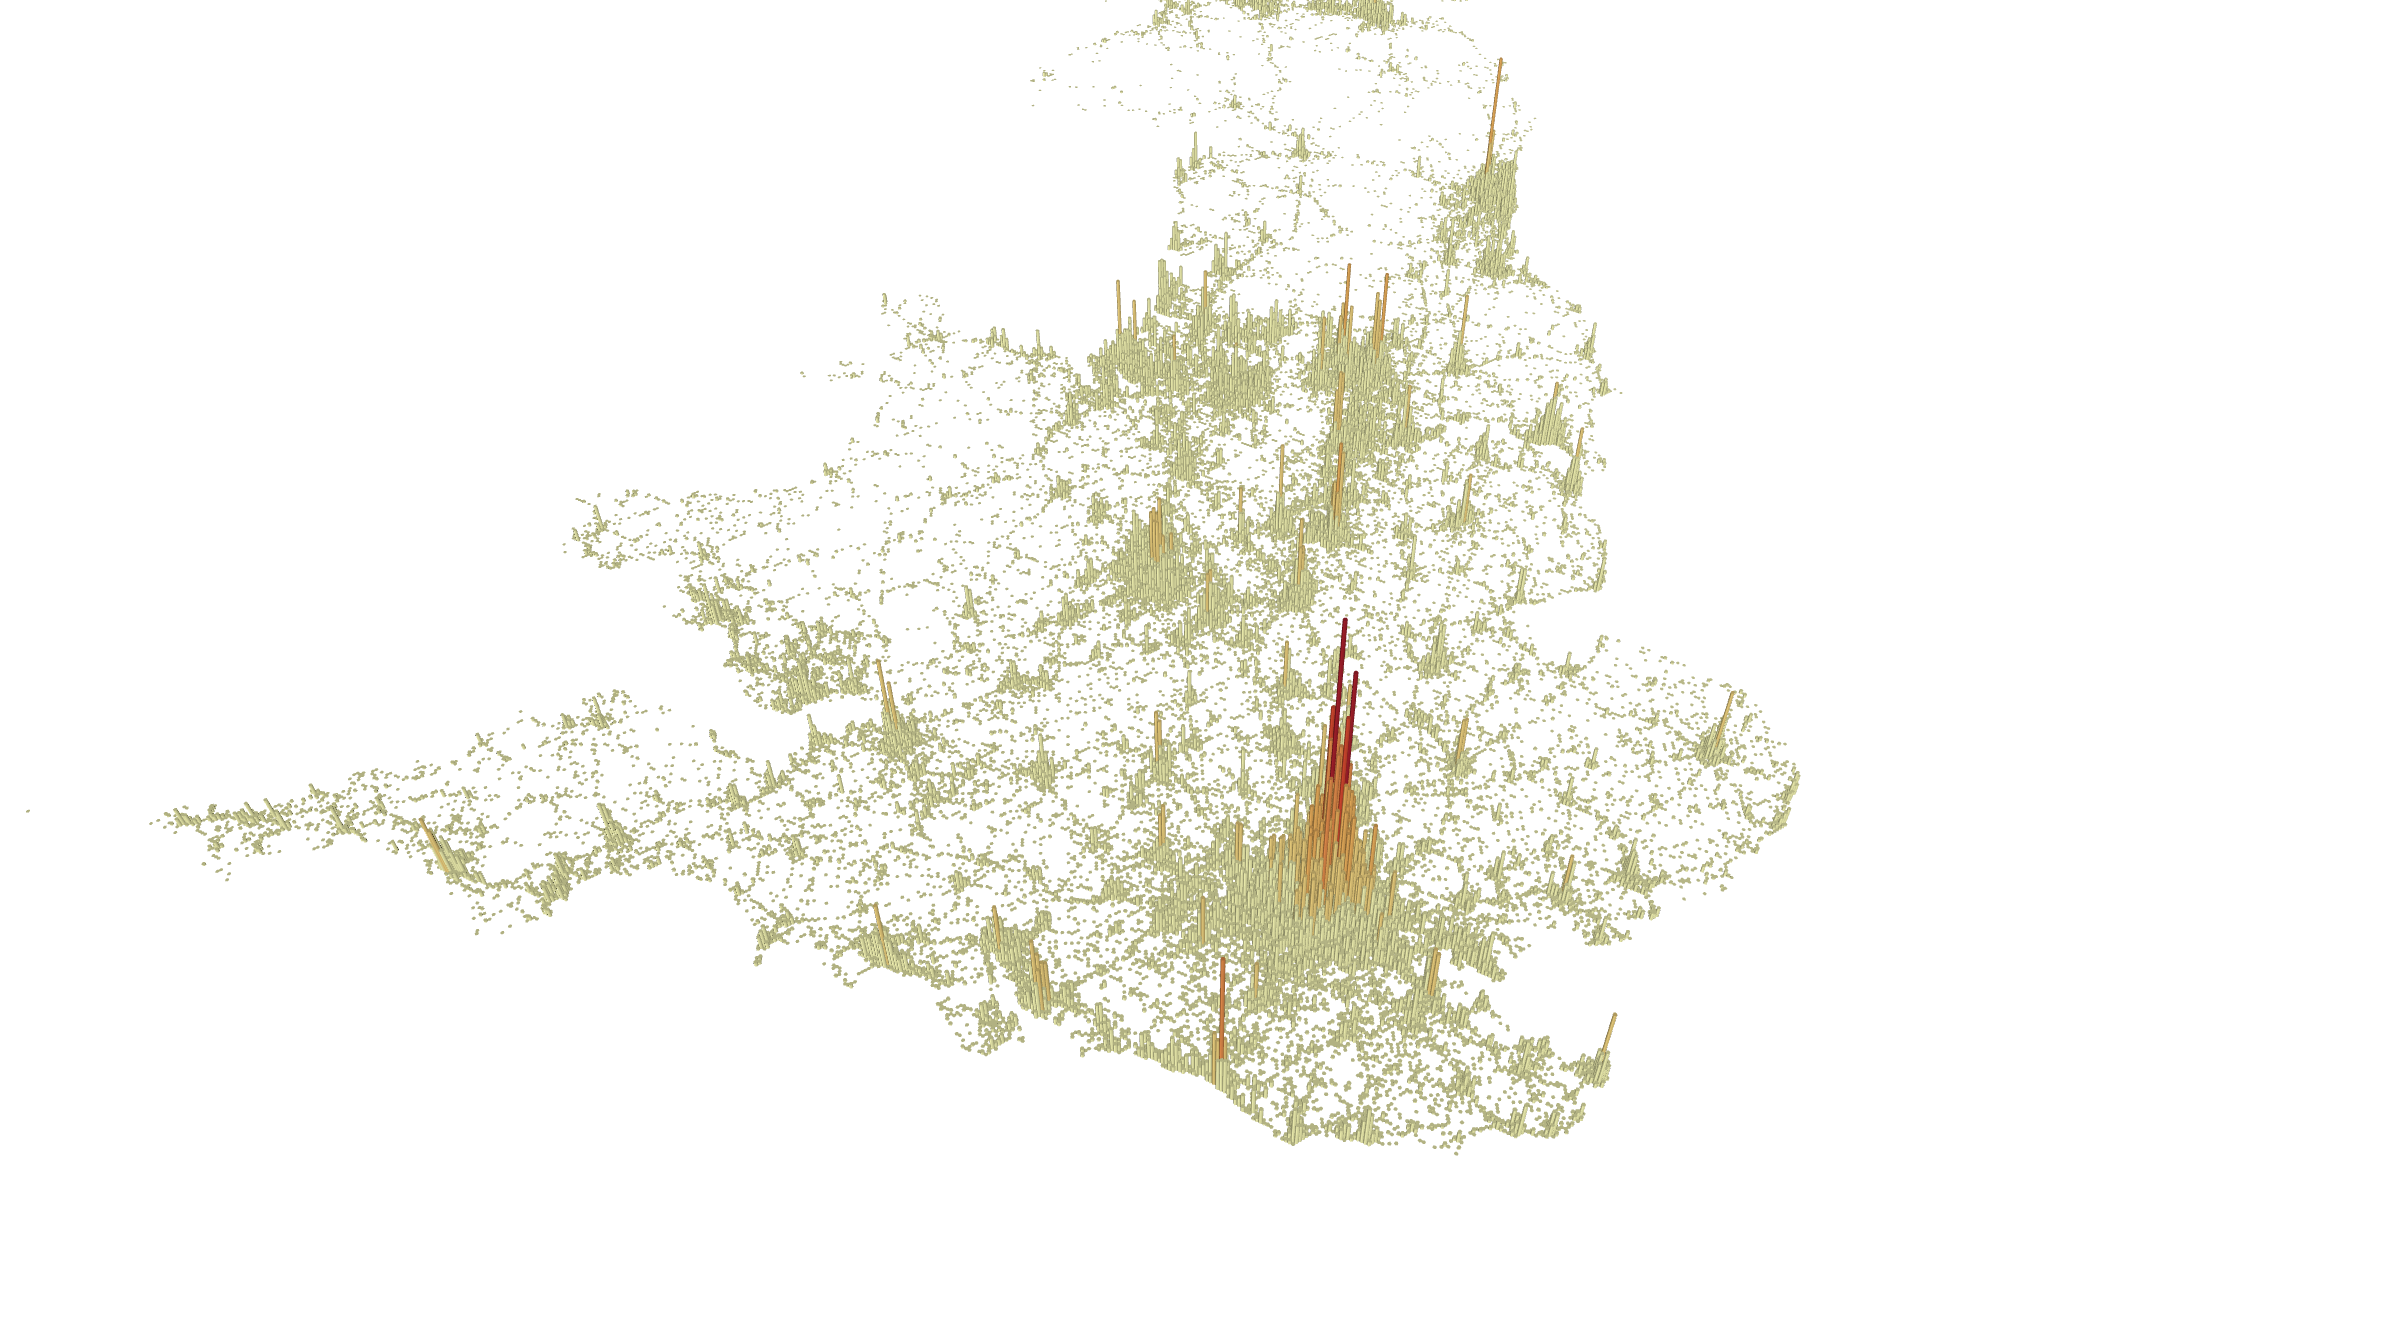
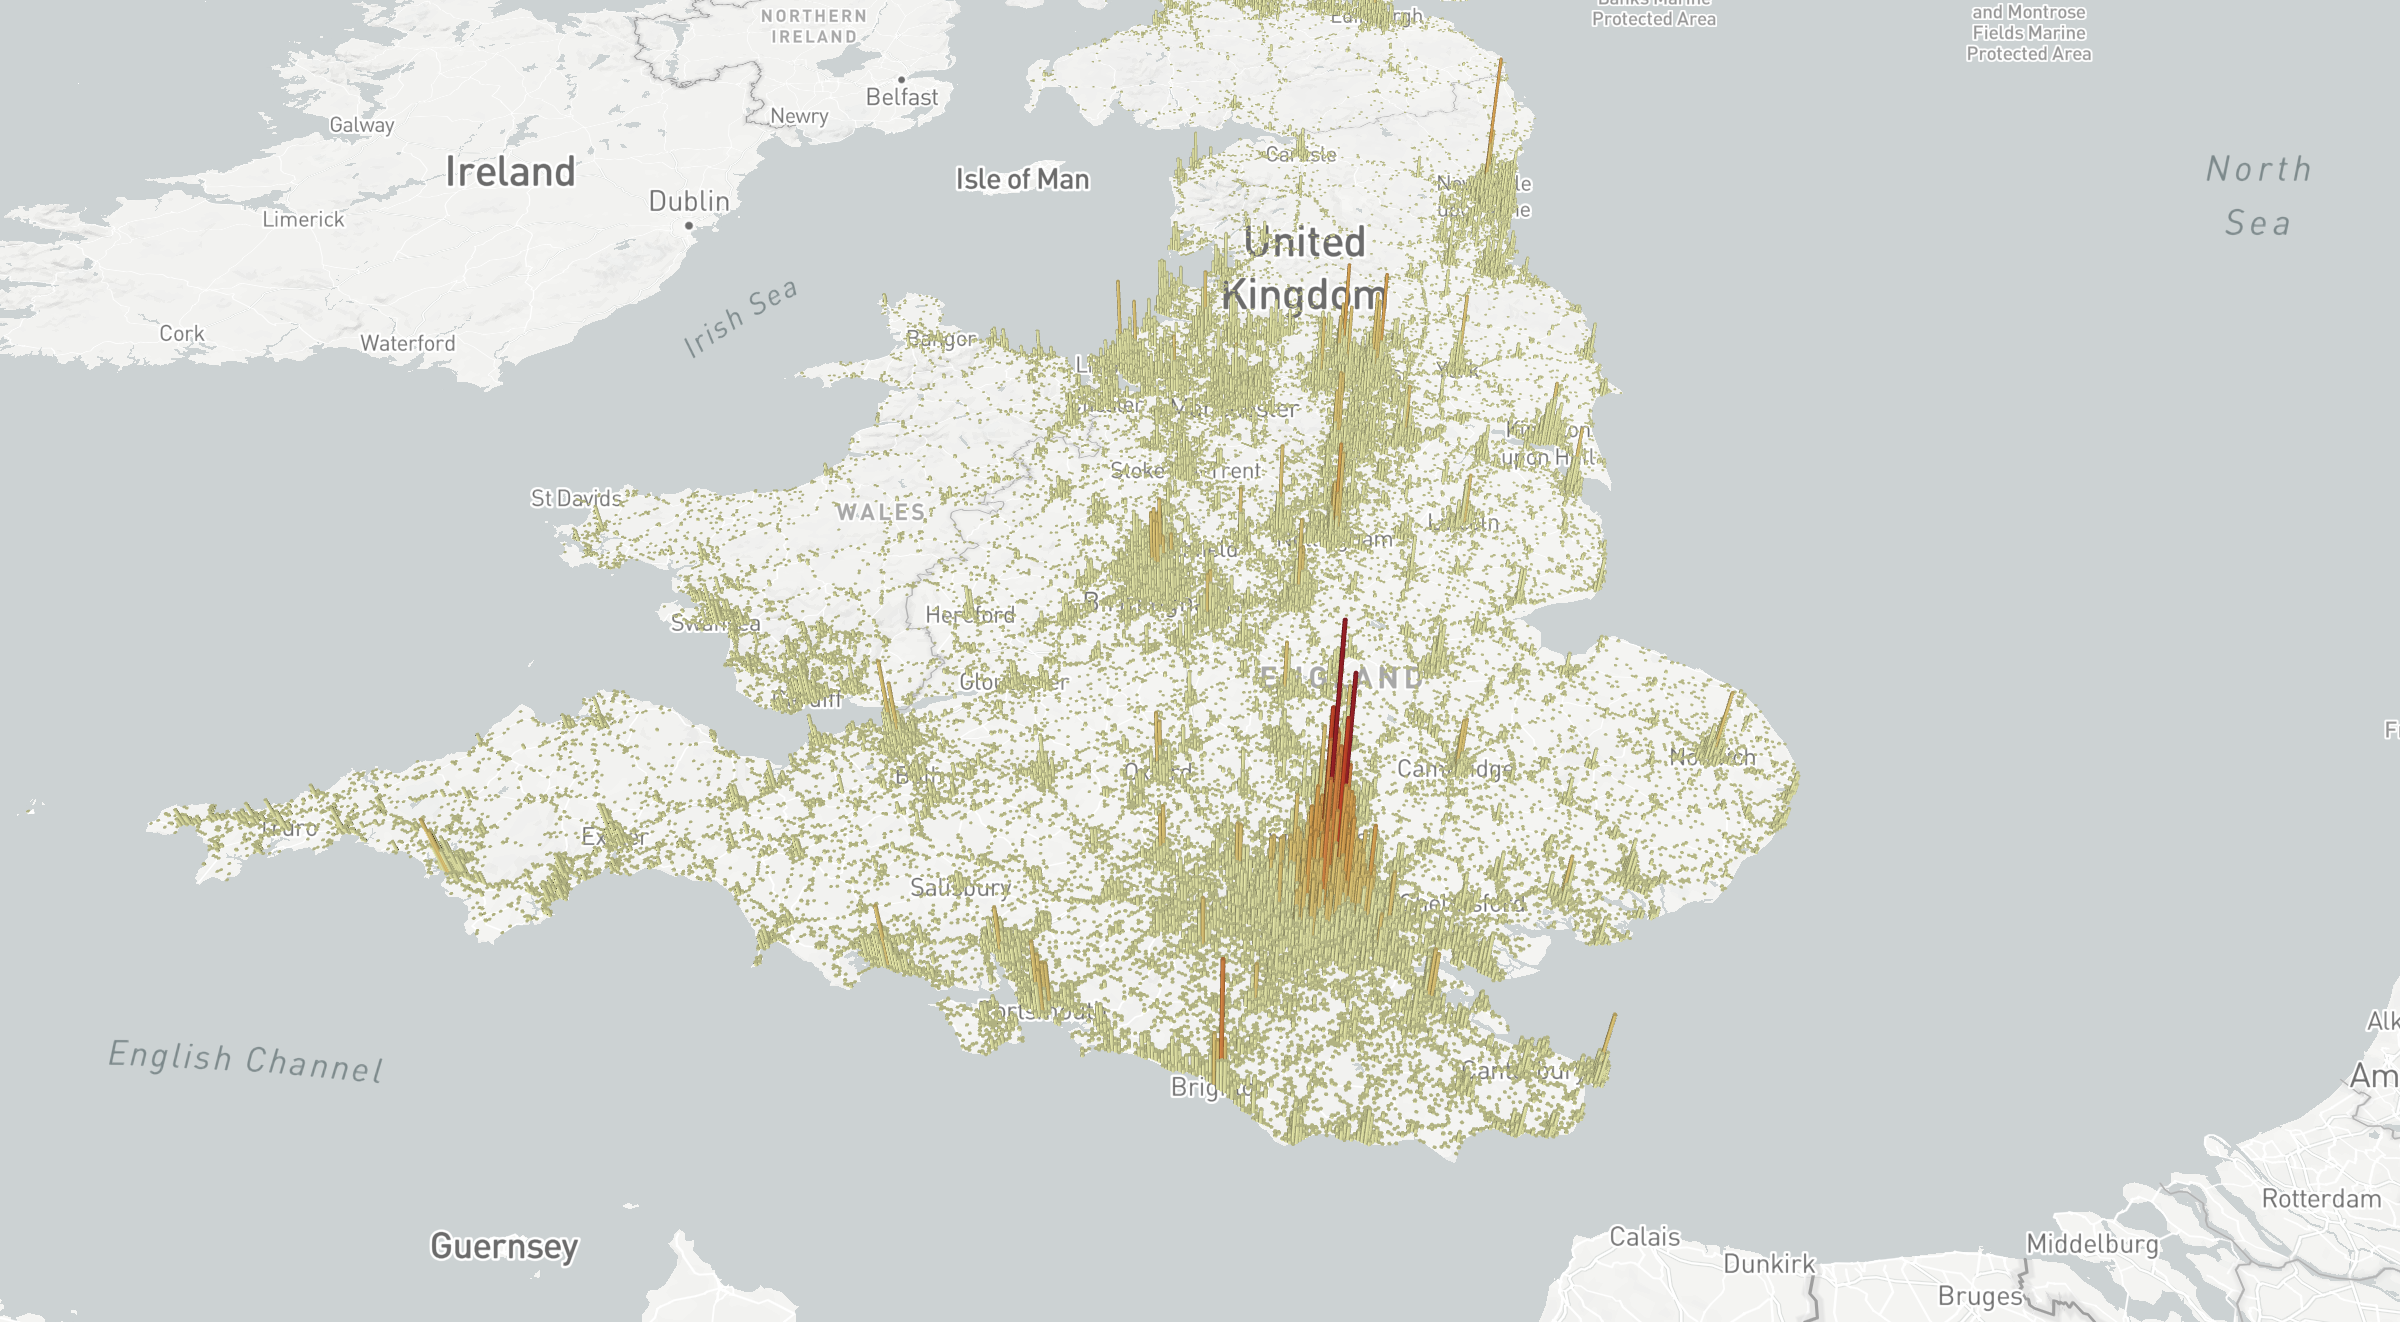
Update deck_map.html and pydeck_selenium_example to enhance map visualization and functionality

diff --git a/deck_map.html b/deck_map.html
@@ -33,13 +33,30 @@
     const container = document.getElementById('deck-container');
     const jsonInput = {
   "initialViewState": {
-    "latitude": 35.6812,
-    "longitude": 139.7671,
-    "pitch": 45,
-    "zoom": 11
+    "bearing": -27.36,
+    "latitude": 52.2323,
+    "longitude": -1.415,
+    "pitch": 40.5,
+    "zoom": 6
   },
-  "layers": [],
-  "mapProvider": "carto",
+  "layers": [
+    {
+      "@@type": "HexagonLayer",
+      "autoHighlight": true,
+      "coverage": 1,
+      "data": "https://raw.githubusercontent.com/visgl/deck.gl-data/master/examples/3d-heatmap/heatmap-data.csv",
+      "elevationRange": [
+        0,
+        3000
+      ],
+      "elevationScale": 50,
+      "extruded": true,
+      "getPosition": "@@=[lng, lat]",
+      "id": "ee397551-2cad-4bbb-9e98-262eb561605a",
+      "pickable": true
+    }
+  ],
+  "mapProvider": "mapbox",
   "mapStyle": "mapbox://styles/mapbox/light-v9",
   "views": [
     {
@@ -53,6 +70,7 @@
     const configuration = null;
 
     const deckInstance = createDeck({
+            mapboxApiKey: 'pk.eyJ1IjoibmFnYW1wZXJlIiwiYSI6ImNtYmNhdGdzZjFpeWUya3MxZGVvcjliajUifQ.wvUEbvy9G_ZyUz_KTmGwBQ',
                   container,
       jsonInput,
       tooltip,

diff --git a/pydeck_selenium_example.py b/pydeck_selenium_example.py
@@ -25,17 +25,27 @@ view_state = pdk.ViewState(
     longitude=-1.415,
     latitude=52.2323,
     zoom=6,
-    min_zoom=5,
-    max_zoom=15,
+    # min_zoom=5,
+    # max_zoom=15,
     pitch=40.5,
     bearing=-27.36)
 
-# Combined all of it and render a viewport
-r = pdk.Deck(layers=[layer], initial_view_state=view_state)
-r.map_style = "mapbox://styles/mapbox/light-v9"
+# pdk.settings.mapbox_api_key = "sk.eyJ1IjoibmFnYW1wZXJlIiwiYSI6ImNtYmNhamxqZzFuNmYybXMxa2ZkZ3NvbncifQ.qcZTiDoJAR2FN_pSRnVvVA"
+
+# map_styleをDeckに渡す
+r = pdk.Deck(
+    layers=[layer], 
+    initial_view_state=view_state, 
+    map_provider="mapbox", 
+    api_keys={'mapbox':"pk.eyJ1IjoibmFnYW1wZXJlIiwiYSI6ImNtYmNhdGdzZjFpeWUya3MxZGVvcjliajUifQ.wvUEbvy9G_ZyUz_KTmGwBQ"}
+    )
+
+# Set the Mapbox access token
+# r.map_style = "mapbox://styles/nagampere/cmbc4lpvt000601r3a8ml52md"
+r.map_style = "mapbox://styles/mapbox/light-v9" 
 
 # Save the map to an HTML file
-r.to_html('deck_map.html', open_browser=False)
+r.to_html('deck_map.html')
 
 # %%
 # Chrome headlessモード設定
